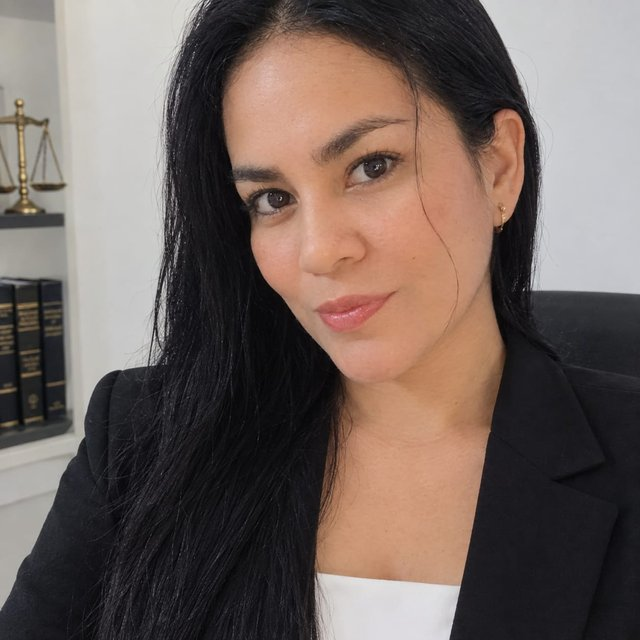
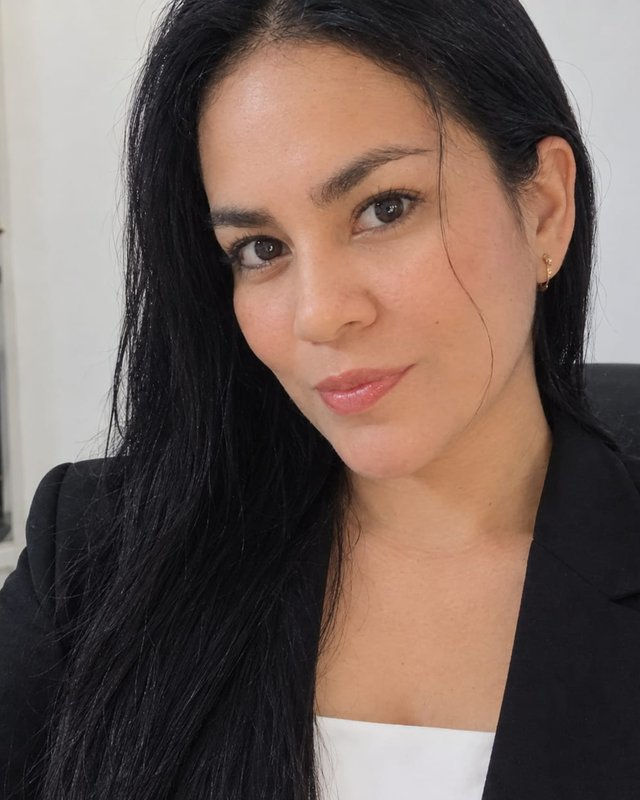
Agrega fotos de perfil

diff --git a/index.html b/index.html
@@ -85,10 +85,11 @@ ol p{color:var(--muted);font-size:.95rem;margin-top:2px}
 .ng section{margin-bottom:24px}
 .ng ul{margin:0;padding-left:20px;color:var(--muted)}
 .ng p{color:var(--muted);margin-bottom:14px}
-.pf{display:flex;gap:28px;align-items:flex-start;margin-bottom:8px}
-.pf figure{margin:0 10px 10px 0;flex:0 0 190px}
-.pf img{display:block;width:100%;height:auto;aspect-ratio:1/1;object-fit:cover;object-position:center top;border-radius:2px;box-shadow:10px 10px 0 var(--sage)}
-@media(max-width:560px){.pf{flex-direction:column;gap:16px}.pf figure{flex:none;width:220px}}
+.duo{display:flex;gap:26px;margin:0 10px 34px 0}
+.duo figure{margin:0;flex:1;max-width:230px}
+.duo figure:nth-child(2){margin-top:24px}
+.duo img{display:block;width:100%;height:auto;aspect-ratio:4/5;object-fit:cover;object-position:center top;border-radius:2px;box-shadow:10px 10px 0 var(--sage)}
+@media(max-width:560px){.duo{gap:20px}}
 @media(max-width:800px){.ng{grid-template-columns:1fr;gap:12px}}
 
 .cg{display:grid;grid-template-columns:.9fr 1.1fr;gap:56px;margin-top:32px}
@@ -189,13 +190,12 @@ footer p{max-width:70ch}
   <h2>Nosotros</h2>
   <div class="ng">
    <div>
-    <div class="pf">
-     <figure><img src="perfil.jpg" width="640" height="640" loading="lazy" alt="Profesional de Abogados Cárdenas en su oficina"></figure>
-     <div>
-      <h3>Perfil</h3>
-      <p>Abogados Cárdenas es una firma que atiende asuntos judiciales y de asesoría para personas, familias y empresas. Ingrid Lorena Cardenas Ramirez, abogada titulada y Hector Javier Cardenas Ramirez, abogado titulado lideran el equipo y atienden personalmente cada caso.</p>
-     </div>
+    <div class="duo">
+     <figure><img src="perfil.jpg" width="640" height="800" loading="lazy" alt="Profesional de Abogados Cárdenas en su oficina"></figure>
+     <figure><img src="perfil2.jpg" width="640" height="800" loading="lazy" alt="Otro profesional de Abogados Cárdenas en su oficina"></figure>
     </div>
+    <h3>Perfil</h3>
+    <p>Abogados Cárdenas es una firma que atiende asuntos judiciales y de asesoría para personas, familias y empresas. Ingrid Lorena Cardenas Ramirez, abogada titulada y Hector Javier Cardenas Ramirez, abogado titulado lideran el equipo y atienden personalmente cada caso.</p>
     <h3>Experiencia</h3>
     <p>Trayectoria en litigio y asesoría en derecho civil, laboral, de familia, administrativo, agrario e inmobiliario. Más de 6 años de experiencia Litigios | Procesos | Asesoría Jurídica | Derecho Administrativo | Asuntos de Tierras, contamos con experiencia profesional relacionada con la Agencia Nacional de Tierras (ANT), participando en asuntos y procesos vinculados al sector rural y a la gestión de tierras.</p>
    </div>
